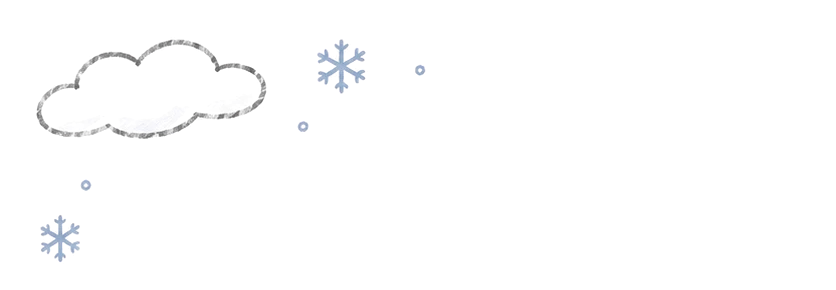
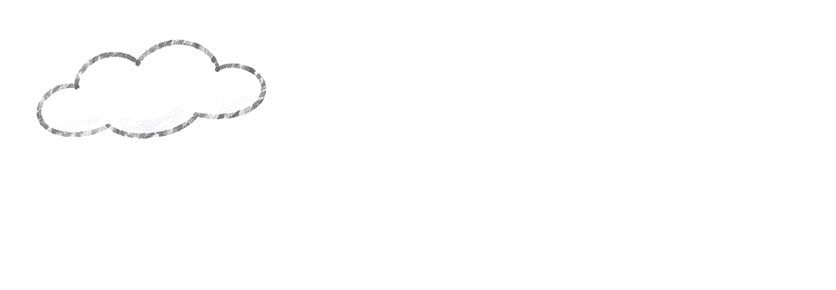
feat: animate the 行前準備 snow scene: falling snow, gondolas, chimney smoke
The gondolas, smoke and snowflakes are lifted out of the corner pieces
(cable redrawn where the gondolas were) and animated on top in a new
PrepScene component; animation stops under prefers-reduced-motion.

diff --git a/src/assets/pages/_prep.scss b/src/assets/pages/_prep.scss
@@ -8,23 +8,121 @@ $prep-pen: $prep-red;
 
 
 .prep-page { position: relative; z-index: 0; width: min(680px, calc(100% - 32px)); margin: 0 auto; padding: 72px 0 80px; }
-// A faint pencil snow scene behind the card. The picture is cut into its four
-// corners (transparent PNG-style webp) and each is drawn at 70% of its
-// full-width size in its own corner, so the scene still spans the whole width
-// while its drawings are smaller; the gap in the middle sits behind the card.
-.prep-page::before {
-  --piece: 35%; // half the picture's width x 0.7
-  content: "";
+// A faint pencil snow scene behind the card (PrepScene.jsx). The picture is
+// cut into its four corners, each drawn at 70% of its full-width size in its
+// own corner, so the scene still spans the whole width while its drawings are
+// smaller; the gap in the middle sits behind the card. Gondolas ride the cable,
+// smoke rises from the chimney and snow falls, all behind the card.
+.prep-scene {
   position: fixed;
   inset: var(--topbar-height, 72px) 0 0;
   z-index: -1;
+  overflow: hidden;
   pointer-events: none;
   opacity: .5;
-  background:
-    url("../prep-bg-sky-left.webp") left top / var(--piece) auto no-repeat,
-    url("../prep-bg-sky-right.webp") right top / var(--piece) auto no-repeat,
-    url("../prep-bg-slopes-left.webp") left bottom / var(--piece) auto no-repeat,
-    url("../prep-bg-slopes-right.webp") right bottom / var(--piece) auto no-repeat;
+}
+.prep-scene-piece {
+  // Every overlay is placed in the picture's own pixels: 1 unit = 1px of the
+  // 836px-wide half picture, scaled to the piece's real width.
+  --u: calc(100cqw / 836);
+  position: absolute;
+  width: 35%; // half the picture's width x 0.7
+  container-type: inline-size;
+}
+.prep-scene-piece > .prep-scene-art { display: block; width: 100%; height: auto; }
+.prep-scene-piece.is-sky-left { top: 0; left: 0; }
+.prep-scene-piece.is-sky-right { top: 0; right: 0; }
+.prep-scene-piece.is-slopes-left { bottom: 0; left: 0; }
+.prep-scene-piece.is-slopes-right { bottom: 0; right: 0; }
+
+// The lower cable line runs from (334, 0) to the piece's right edge at
+// (836, 159): 527 units long, 17.6° down. The track lies along it and the
+// cars slide down it, hanging straight.
+.prep-gondola-track {
+  position: absolute;
+  top: 0;
+  left: calc(var(--u) * 334);
+  width: calc(var(--u) * 527);
+  height: 0;
+  transform: rotate(17.6deg);
+  transform-origin: 0 0;
+}
+.prep-gondola-car {
+  position: absolute;
+  top: 0;
+  left: 0;
+  animation: prep-gondola-ride 22s linear infinite;
+}
+.prep-gondola-car.is-second { animation-delay: -11s; }
+.prep-gondola-car > img {
+  position: absolute;
+  top: calc(var(--u) * -2);
+  left: calc(var(--u) * -50);
+  width: calc(var(--u) * 92);
+  max-width: none; // the car is a zero-size anchor; a global img max-width would collapse it
+  transform: rotate(-17.6deg);
+  transform-origin: calc(var(--u) * 50) 0;
+  animation: prep-gondola-sway 3.2s ease-in-out infinite alternate;
+}
+@keyframes prep-gondola-ride {
+  0% { transform: translateX(0); opacity: 0; }
+  8% { opacity: 1; }
+  88% { opacity: 1; }
+  100% { transform: translateX(calc(var(--u) * 527)); opacity: 0; }
+}
+@keyframes prep-gondola-sway {
+  from { transform: rotate(-19.6deg); }
+  to { transform: rotate(-15.6deg); }
+}
+
+// The chimney top is at about (744, 125) of the right slopes piece; the smoke
+// sprite starts just above it and puffs drift up and to the right.
+.prep-smoke {
+  position: absolute;
+  top: calc(var(--u) * 40);
+  left: calc(var(--u) * 726);
+  width: calc(var(--u) * 102);
+  transform-origin: 15% 100%;
+  animation: prep-smoke-rise 5s ease-out infinite;
+  opacity: 0;
+}
+.prep-smoke.is-second { animation-delay: -2.5s; }
+@keyframes prep-smoke-rise {
+  0% { transform: translate(0, calc(var(--u) * 10)) scale(.45); opacity: 0; }
+  25% { opacity: 1; }
+  70% { opacity: .8; }
+  100% { transform: translate(calc(var(--u) * 16), calc(var(--u) * -40)) scale(1.2); opacity: 0; }
+}
+
+.prep-snow { position: absolute; inset: 0; }
+.prep-flake {
+  position: absolute;
+  top: -24px;
+  width: var(--size);
+  height: var(--size);
+  animation: prep-snow-fall 15s linear infinite;
+}
+.prep-flake > img, .prep-flake > i {
+  display: block;
+  width: 100%;
+  height: 100%;
+  animation: prep-snow-sway 3.4s ease-in-out infinite alternate;
+}
+.prep-flake > i { border-radius: 50%; background: #8fb0cf; }
+@keyframes prep-snow-fall {
+  from { transform: translateY(0) rotate(0deg); }
+  to { transform: translateY(calc(100vh + 48px)) rotate(200deg); }
+}
+@keyframes prep-snow-sway {
+  from { transform: translateX(-14px); }
+  to { transform: translateX(14px); }
+}
+
+@media (prefers-reduced-motion: reduce) {
+  .prep-gondola-car, .prep-gondola-car > img, .prep-smoke, .prep-flake, .prep-flake > img, .prep-flake > i { animation: none; }
+  .prep-gondola-car.is-second { transform: translateX(calc(var(--u) * 300)); }
+  .prep-smoke { opacity: 1; }
+  .prep-smoke.is-second, .prep-snow { display: none; }
 }
 html:has(.prep-page), html:has(.prep-page) body { background: #fff; }
 

diff --git a/src/component/PrepScene.jsx b/src/component/PrepScene.jsx
@@ -1,0 +1,89 @@
+import skyLeft from "../assets/prep-bg-sky-left.webp";
+import skyRight from "../assets/prep-bg-sky-right.webp";
+import slopesLeft from "../assets/prep-bg-slopes-left.webp";
+import slopesRight from "../assets/prep-bg-slopes-right.webp";
+import gondola from "../assets/prep-gondola.webp";
+import smoke from "../assets/prep-smoke.webp";
+import snowflake from "../assets/prep-snowflake.webp";
+
+// The faint pencil snow scene behind the 行前準備 card. The picture is cut
+// into its four corners; the gondolas, the chimney smoke and the snowflakes
+// were lifted out of it and are animated on top (see _prep.scss).
+
+// Fixed, hand-picked flakes so the snowfall looks the same on every render.
+// left: % of the screen width, size: px, fall: seconds, delay: seconds.
+const FLAKES = [
+  { left: 3, size: 16, fall: 15, delay: 0, icon: true },
+  { left: 9, size: 5, fall: 11, delay: 4 },
+  { left: 14, size: 7, fall: 13, delay: 9 },
+  { left: 19, size: 12, fall: 17, delay: 6, icon: true },
+  { left: 24, size: 4, fall: 10, delay: 1 },
+  { left: 29, size: 6, fall: 14, delay: 11 },
+  { left: 34, size: 14, fall: 16, delay: 3, icon: true },
+  { left: 39, size: 5, fall: 12, delay: 7 },
+  { left: 45, size: 7, fall: 15, delay: 13 },
+  { left: 50, size: 11, fall: 18, delay: 9, icon: true },
+  { left: 55, size: 4, fall: 11, delay: 2 },
+  { left: 60, size: 6, fall: 13, delay: 5 },
+  { left: 65, size: 15, fall: 16, delay: 12, icon: true },
+  { left: 70, size: 5, fall: 10, delay: 8 },
+  { left: 75, size: 7, fall: 14, delay: 0 },
+  { left: 80, size: 12, fall: 17, delay: 4, icon: true },
+  { left: 85, size: 4, fall: 12, delay: 10 },
+  { left: 90, size: 6, fall: 13, delay: 3 },
+  { left: 95, size: 16, fall: 15, delay: 7, icon: true },
+  { left: 7, size: 6, fall: 16, delay: 12 },
+  { left: 43, size: 5, fall: 14, delay: 15 },
+  { left: 72, size: 13, fall: 19, delay: 14, icon: true },
+  { left: 88, size: 5, fall: 11, delay: 6 },
+  { left: 27, size: 10, fall: 18, delay: 16, icon: true },
+];
+
+function PrepScene() {
+  return (
+    <div className="prep-scene" aria-hidden="true">
+      <div className="prep-scene-piece is-sky-left">
+        <img className="prep-scene-art" src={skyLeft} alt="" />
+      </div>
+      <div className="prep-scene-piece is-sky-right">
+        <img className="prep-scene-art" src={skyRight} alt="" />
+        <div className="prep-gondola-track">
+          <span className="prep-gondola-car">
+            <img src={gondola} alt="" />
+          </span>
+          <span className="prep-gondola-car is-second">
+            <img src={gondola} alt="" />
+          </span>
+        </div>
+      </div>
+      <div className="prep-scene-piece is-slopes-left">
+        <img className="prep-scene-art" src={slopesLeft} alt="" />
+      </div>
+      <div className="prep-scene-piece is-slopes-right">
+        <img className="prep-scene-art" src={slopesRight} alt="" />
+        <img className="prep-smoke" src={smoke} alt="" />
+        <img className="prep-smoke is-second" src={smoke} alt="" />
+      </div>
+      <div className="prep-snow">
+        {FLAKES.map((flake, index) => (
+          <span
+            key={index}
+            className="prep-flake"
+            style={{
+              left: `${flake.left}%`,
+              "--size": `${flake.size}px`,
+              animationDuration: `${flake.fall}s`,
+              // Negative delays start each flake part-way down, so the screen
+              // is already snowing when the page opens.
+              animationDelay: `${-flake.delay}s`,
+            }}
+          >
+            {flake.icon ? <img src={snowflake} alt="" /> : <i />}
+          </span>
+        ))}
+      </div>
+    </div>
+  );
+}
+
+export default PrepScene;

diff --git a/src/views/frontend/Prep.jsx b/src/views/frontend/Prep.jsx
@@ -2,6 +2,7 @@ import { useEffect, useRef, useState } from "react";
 import { useAuth } from "../../context/AuthContext";
 import { savePrepCloud, subscribePrepCloud } from "../../services/firebase";
 import "../../assets/pages/_prep.scss";
+import PrepScene from "../../component/PrepScene";
 
 // 行前準備: a hand-drawn notebook checklist. Tapping an item ticks its box and
 // strikes it through; items can be added and removed. It syncs with the
@@ -116,6 +117,7 @@ function Prep() {
 
   return (
     <section className="prep-page">
+      <PrepScene />
       <div className="prep-notebook">
         <div className="prep-sheet">
         <header className="prep-heading">
